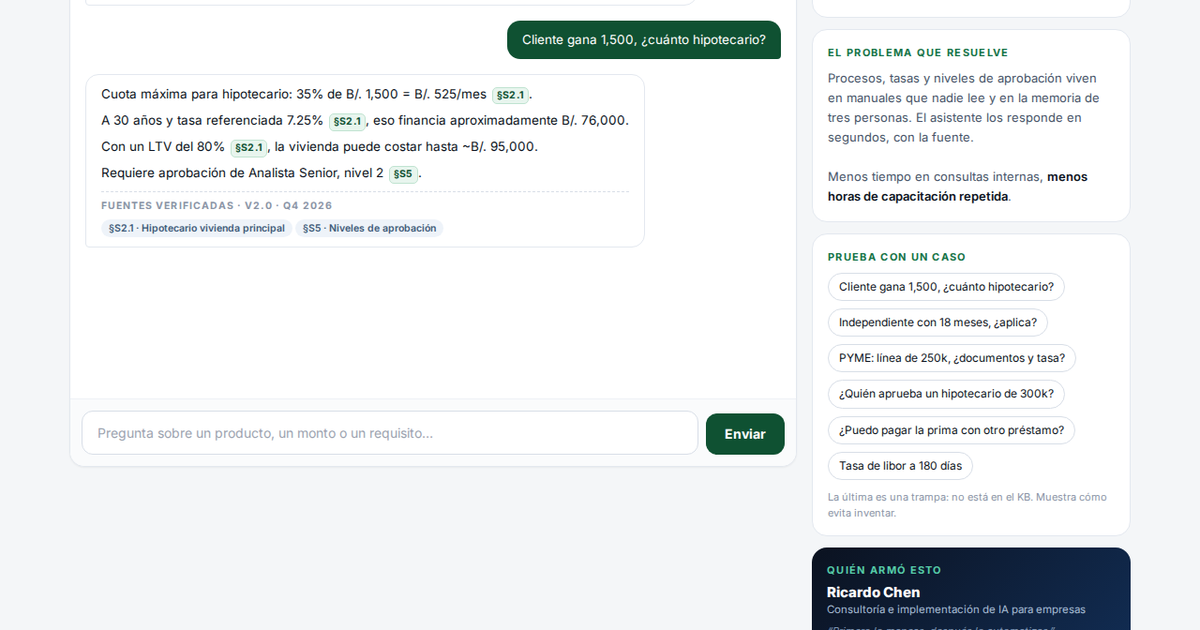
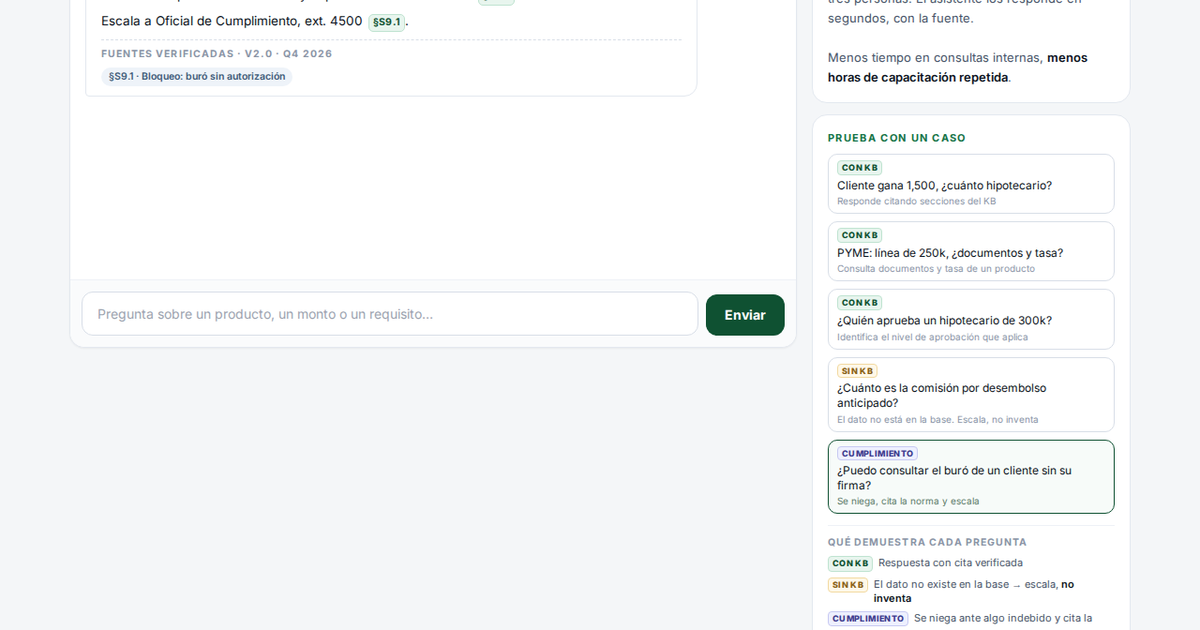
Chips con etiquetas CON KB / SIN KB / CUMPLIMIENTO + leyenda explicativa; trampa local (desembolso anticipado) y prueba de cumplimiento (buro sin firma)

diff --git a/index.html b/index.html
@@ -37,6 +37,14 @@
   .bubble-user { background:var(--brand); color:#fff; border-radius:14px; border-bottom-right-radius:4px; }
   .chip { border:1px solid #D8DEE7; background:#fff; border-radius:999px; font-size:12px; padding:6px 11px; text-align:left; line-height:1.35; }
   .chip:hover { border-color:var(--brand); color:var(--brand); }
+  .chip-demo { display:flex; flex-direction:column; align-items:flex-start; gap:3px; border:1px solid #D8DEE7; background:#fff; border-radius:10px; padding:6px 9px; text-align:left; font-size:12px; line-height:1.3; transition:.15s; }
+  .chip-demo:hover { border-color:var(--brand); background:#F7FBF9; }
+  .chip-demo .note { font-size:10px; color:#8A94A6; }
+  .chip-demo:hover .note { color:#5B7A68; }
+  .badge { display:inline-block; font-size:9px; font-weight:800; letter-spacing:.04em; border-radius:4px; padding:1px 4px; white-space:nowrap; }
+  .badge-kb { background:#E8F5EE; color:#0F5132; border:1px solid #BFE3D0; }
+  .badge-nokb { background:#FFF8E8; color:#8A6114; border:1px solid #F2D9A0; }
+  .badge-legal { background:#EEF0FF; color:#3D3B8E; border:1px solid #C7C9F2; }
   .chat-p { margin:0 0 .4rem; line-height:1.6; } .chat-p:last-child{ margin-bottom:0; }
   .chat-ul { margin:.25rem 0 .5rem; padding-left:1.1rem; list-style:disc; }
   .chat-ul li { margin:.2rem 0; line-height:1.55; }
@@ -129,15 +137,20 @@
       <!-- PRUEBA -->
       <div class="bg-white rounded-2xl border border-[#E3E8EF] p-4">
         <p class="text-[11px] font-bold uppercase tracking-[.12em] text-[#157347] mb-2">Prueba con un caso</p>
-        <div class="flex flex-wrap gap-2" id="chips">
-          <button class="chip" type="button">Cliente gana 1,500, ¿cuánto hipotecario?</button>
-          <button class="chip" type="button">Independiente con 18 meses, ¿aplica?</button>
-          <button class="chip" type="button">PYME: línea de 250k, ¿documentos y tasa?</button>
-          <button class="chip" type="button">¿Quién aprueba un hipotecario de 300k?</button>
-          <button class="chip" type="button">¿Puedo pagar la prima con otro préstamo?</button>
-          <button class="chip" type="button">Tasa de libor a 180 días</button>
+        <div class="flex flex-col gap-2" id="chips">
+          <button class="chip-demo" type="button" data-badge="CON KB" data-kind="kb" data-note="Responde citando secciones del KB">Cliente gana 1,500, ¿cuánto hipotecario?</button>
+          <button class="chip-demo" type="button" data-badge="CON KB" data-kind="kb" data-note="Consulta documentos y tasa de un producto">PYME: línea de 250k, ¿documentos y tasa?</button>
+          <button class="chip-demo" type="button" data-badge="CON KB" data-kind="kb" data-note="Identifica el nivel de aprobación que aplica">¿Quién aprueba un hipotecario de 300k?</button>
+          <button class="chip-demo" type="button" data-badge="SIN KB" data-kind="nokb" data-note="El dato no está en la base. Escala, no inventa">¿Cuánto es la comisión por desembolso anticipado?</button>
+          <button class="chip-demo" type="button" data-badge="CUMPLIMIENTO" data-kind="legal" data-note="Se niega, cita la norma y escala">¿Puedo consultar el buró de un cliente sin su firma?</button>
         </div>
-        <p class="text-[11px] text-[#8A94A6] mt-2.5">La última es una trampa: no está en el KB. Muestra cómo evita inventar.</p>
+
+        <div class="mt-3 pt-2.5 border-t border-[#EEF1F6] space-y-1.5">
+          <p class="text-[10.5px] font-bold uppercase tracking-[.1em] text-[#8A94A6]">Qué demuestra cada pregunta</p>
+          <div class="flex items-start gap-1.5 text-[11px] leading-snug text-[#475467]"><span class="badge badge-kb">CON KB</span><span>Respuesta con cita verificada</span></div>
+          <div class="flex items-start gap-1.5 text-[11px] leading-snug text-[#475467]"><span class="badge badge-nokb">SIN KB</span><span>El dato no existe en la base → escala, <span class="font-semibold text-[#0B1220]">no inventa</span></span></div>
+          <div class="flex items-start gap-1.5 text-[11px] leading-snug text-[#475467]"><span class="badge badge-legal">CUMPLIMIENTO</span><span>Se niega ante algo indebido y cita la norma</span></div>
+        </div>
       </div>
 
       <!-- AUTOR -->
@@ -314,7 +327,16 @@ async function send(text) {
 form.addEventListener('submit', (e) => { e.preventDefault(); send(input.value); });
 input.addEventListener('input', () => { input.style.height = 'auto'; input.style.height = Math.min(input.scrollHeight, 128) + 'px'; });
 input.addEventListener('keydown', (e) => { if (e.key === 'Enter' && !e.shiftKey) { e.preventDefault(); send(input.value); } });
-document.querySelectorAll('#chips .chip').forEach(btn => btn.addEventListener('click', () => send(btn.textContent)));
+// Pinta badge + nota dentro de cada chip
+document.querySelectorAll('#chips .chip-demo').forEach(btn => {
+  const q = btn.textContent.trim();
+  const badge = btn.dataset.badge, note = btn.dataset.note || '';
+  btn.innerHTML = `<span class="badge badge-${{'CON KB':'kb','SIN KB':'nokb','CUMPLIMIENTO':'legal'}[badge] || 'kb'}">${badge}</span><span class="qt">${q}</span>${note?`<span class="note">${note}</span>`:''}`;
+});
+
+document.querySelectorAll('#chips .chip-demo').forEach(btn => {
+  btn.addEventListener('click', () => send(btn.querySelector('.qt').textContent.trim()));
+});
 
 addBubble('bot', GREETING);
 input.focus();
